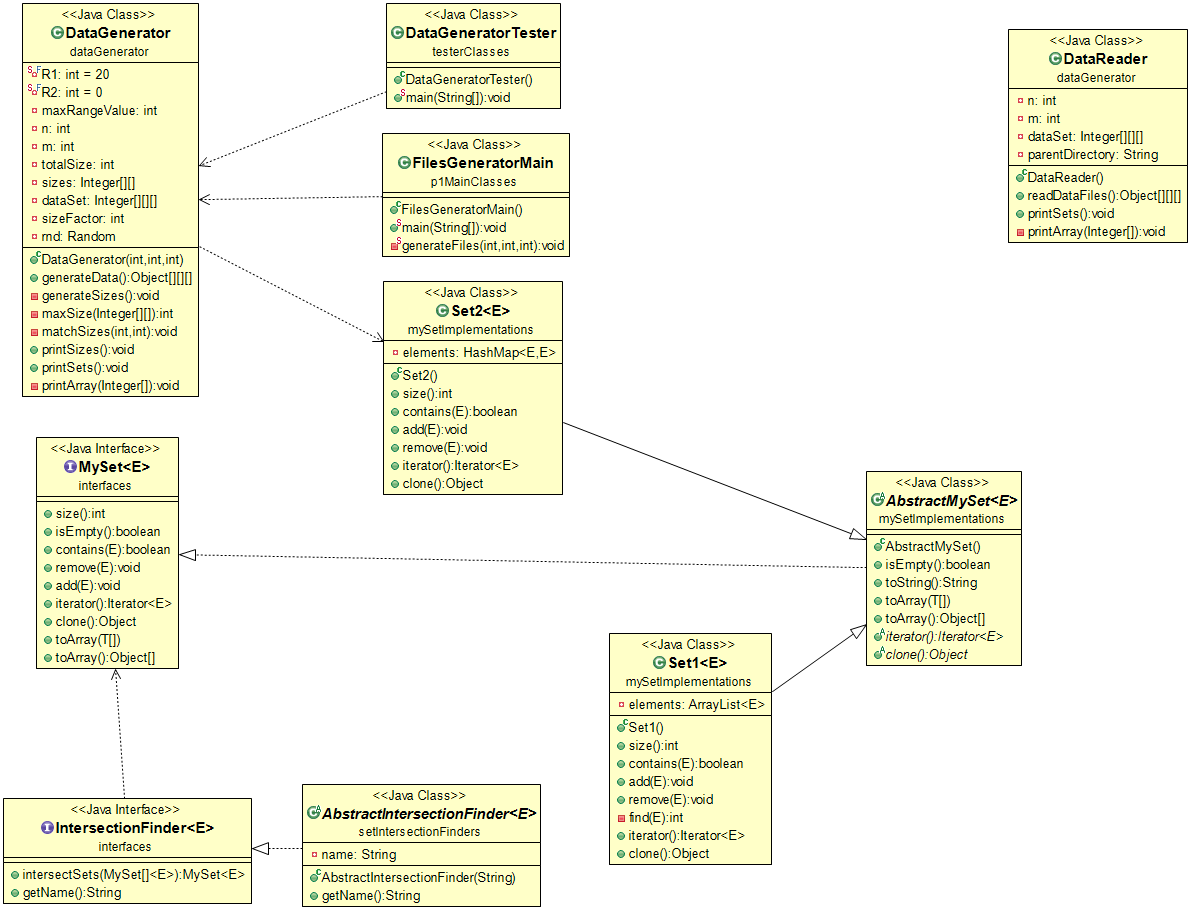
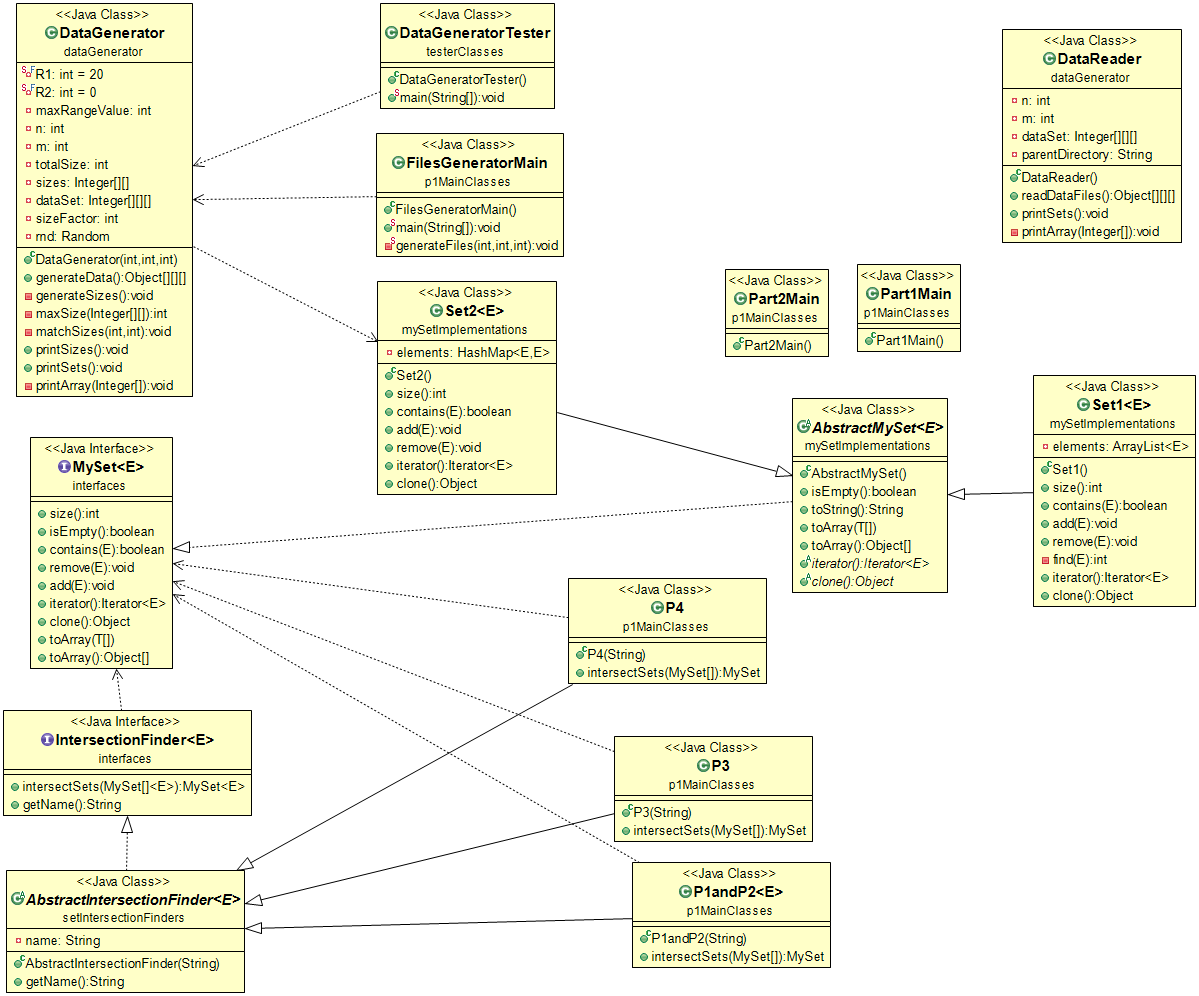
Added Author and minor changes

diff --git a/P1_802142976/src/p1MainClasses/P1andP2.java b/P1_802142976/src/p1MainClasses/P1andP2.java
@@ -3,17 +3,26 @@ package p1MainClasses;
 import interfaces.MySet;
 import setIntersectionFinders.AbstractIntersectionFinder;
 
-public class P1andP2 extends AbstractIntersectionFinder {
+/**
+ * 
+ * @author Barbara P. Gonzalez 802-14-2976
+ *
+ */
+
+public class P1andP2<E> extends AbstractIntersectionFinder {
 
 	public P1andP2(String name) {
 		super(name);
-		// TODO Auto-generated constructor stub
 	}
 
 	@Override
 	public MySet intersectSets(MySet[] t) {
-		// TODO Auto-generated method stub
-		return null;
+		
+		//REMEMBER TO CHNGE THIS
+		MySet<E> result = null;
+		
+		
+		return result;
 	}
 
 	

diff --git a/P1_802142976/src/p1MainClasses/P3.java b/P1_802142976/src/p1MainClasses/P3.java
@@ -3,6 +3,11 @@ package p1MainClasses;
 import interfaces.MySet;
 import setIntersectionFinders.AbstractIntersectionFinder;
 
+/**
+ * 
+ * @author Barbara P. Gonzalez 802-14-2976
+ *
+ */
 public class P3 extends AbstractIntersectionFinder {
 
 	public P3(String name) {

diff --git a/P1_802142976/src/p1MainClasses/P4.java b/P1_802142976/src/p1MainClasses/P4.java
@@ -3,6 +3,11 @@ package p1MainClasses;
 import interfaces.MySet;
 import setIntersectionFinders.AbstractIntersectionFinder;
 
+/**
+ * 
+ * @author Barbara P. Gonzalez 802-14-2976
+ *
+ */
 public class P4 extends AbstractIntersectionFinder {
 
 	public P4(String name) {

diff --git a/P1_802142976/src/p1MainClasses/Part1Main.java b/P1_802142976/src/p1MainClasses/Part1Main.java
@@ -1,5 +1,14 @@
 package p1MainClasses;
 
+
+/**
+ * 
+ * @author Barbara P. Gonzalez 802-14-2976
+ *
+ */
+
 public class Part1Main {
 
+	
+	
 }

diff --git a/P1_802142976/src/p1MainClasses/Part2Main.java b/P1_802142976/src/p1MainClasses/Part2Main.java
@@ -1,5 +1,10 @@
 package p1MainClasses;
 
+/**
+ * 
+ * @author Barbara P. Gonzalez 802-14-2976
+ *
+ */
 public class Part2Main {
 
 }
